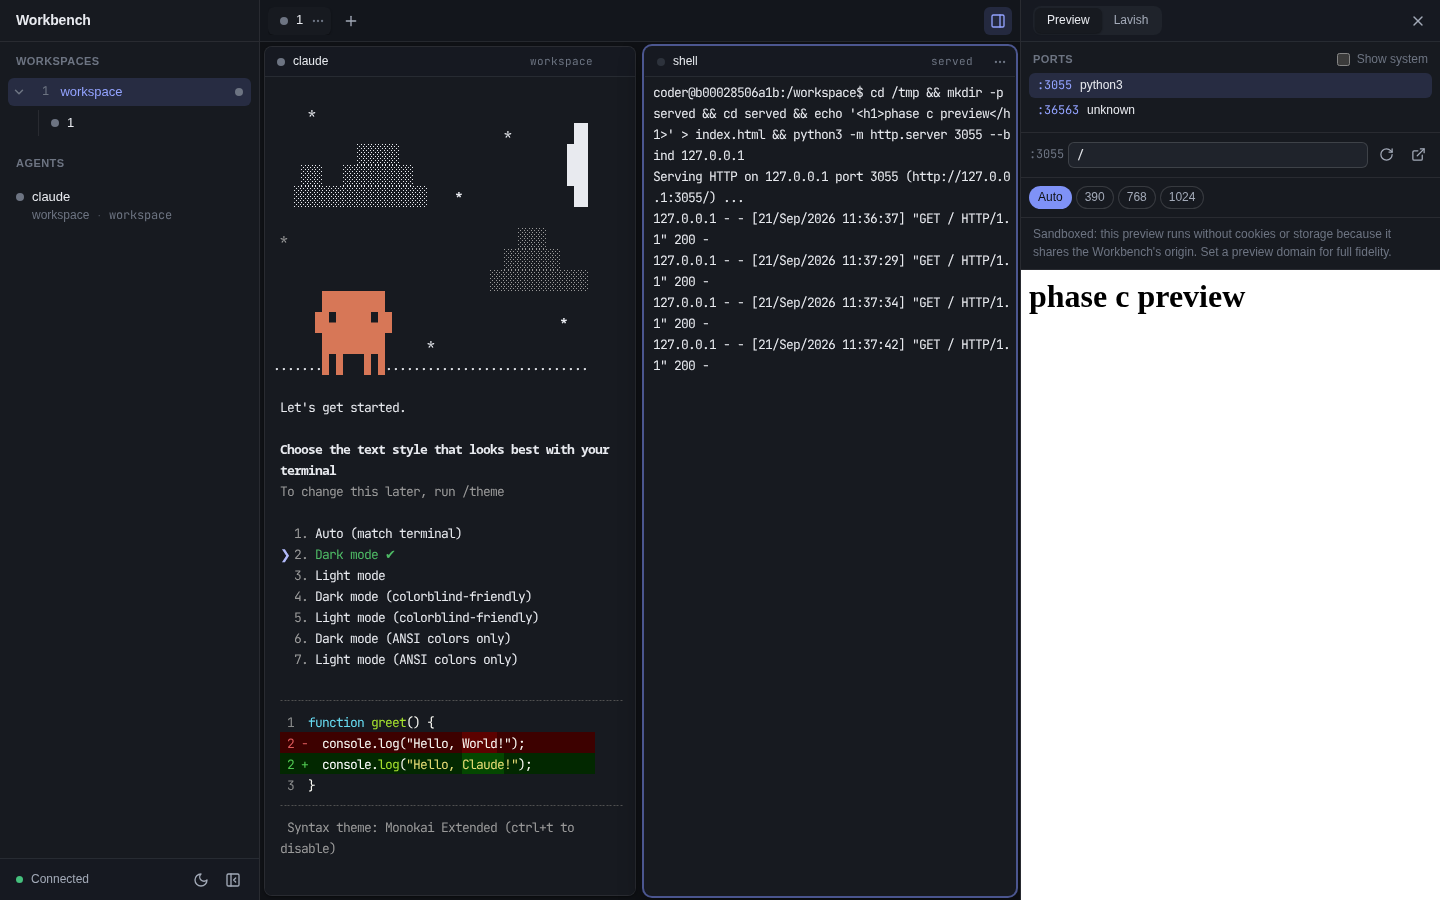
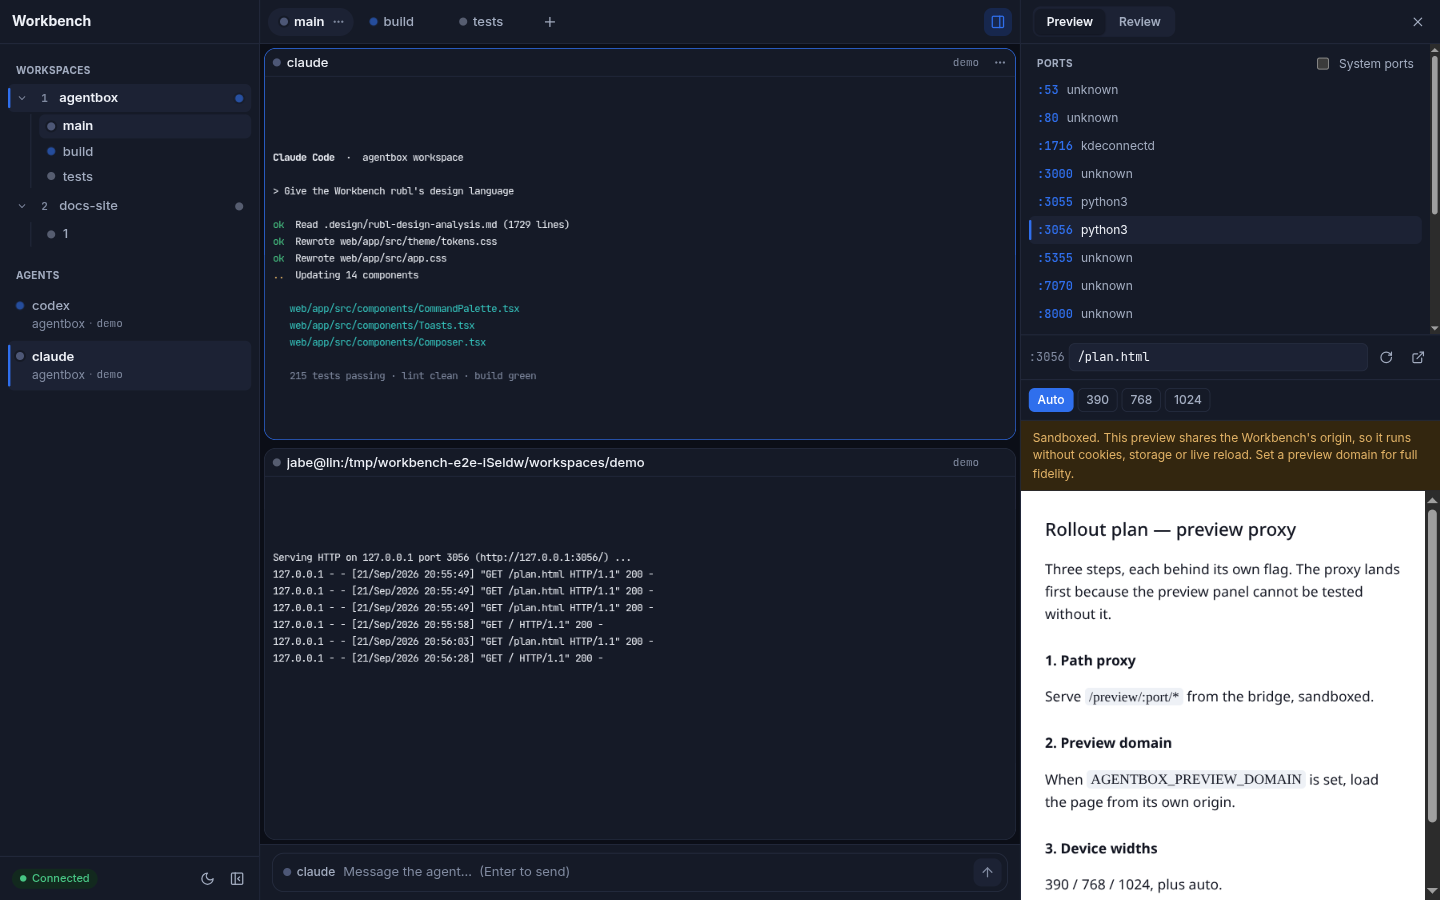
Refresh the Workbench screenshots and the paragraphs they illustrate
The two shots in the docs predate this pass entirely — they still show the
old palette, the old toasts and an inspector tab called Lavish — so they
are retaken against the current UI with a live stack: two workspaces, two
agents, a dev server logging requests in the pane beside it, and that
server's page in the preview panel.

Three sentences move with them. The composer's contract is Enter rather
than ⌘/Ctrl+Enter, the sidebar is now resizable and answers to ⌘B as well
as the prefix, and the browser remembers its width along with the theme and
the inspector's shape.

diff --git a/docs/workbench.md b/docs/workbench.md
@@ -17,8 +17,9 @@ are two views of one session rather than two sessions.
 Everything it shows comes from herdr over a local socket. The bridge that
 serves the app holds one connection to herdr and fans its events out to every
 open tab, so two browsers, a phone and the TUI all stay in step. Nothing is
-stored in the browser except your theme and the inspector's own shape — whether
-it is open, which tab it shows and how wide it is.
+stored in the browser except your theme, the sidebar's width and the
+inspector's own shape — whether it is open, which tab it shows and how wide it
+is.
 
 ![The Workbench in dark mode](images/workbench-dark.png)
 
@@ -26,15 +27,17 @@ it is open, which tab it shows and how wide it is.
 
 - **Sidebar** — workspaces, their tabs, and a flat list of every agent with its
   status. A workspace rolls up the worst status inside it, so a blocked agent
-  is visible without expanding anything. `prefix+b` hides it.
+  is visible without expanding anything. `prefix+b` or `⌘B` hides it, and the
+  edge between it and the grid can be dragged to resize it.
 - **Tab bar** — the tabs of the focused workspace. Rename in place with `F2`,
   close with `Delete`, walk them with the arrow keys.
 - **Pane grid** — herdr's layout, rendered as live terminals. Drag a split to
   resize it; the new ratio is sent to herdr, which is authoritative, so every
   other viewer follows.
 - **Composer** — appears under the grid when the focused pane holds an agent.
-  `⌘/Ctrl+Enter` sends; `Escape` puts focus back in the terminal.
-- **Inspector** — a drawer on the right with two panels: **Preview** for the
+  `Enter` sends, `Shift+Enter` starts a new line, and `Escape` puts focus back
+  in the terminal.
+- **Inspector** — a column on the right with two panels: **Preview** for the
   ports something is listening on, and **Review** for the pages agents publish
   for you to comment on.
 
@@ -79,7 +82,7 @@ field takes precedence.
 | `prefix+n` / `prefix+p` / `prefix+1…9` | next / previous / nth tab |
 | `prefix+⇧N` / `prefix+⇧W` / `prefix+⇧D` | workspace: new / rename / close |
 | `prefix+w` / `prefix+g` | palette, filtered to workspaces / everything |
-| `prefix+b` | toggle the sidebar |
+| `prefix+b` or `⌘B` | toggle the sidebar |
 | `prefix+q` | blur the terminal (the browser's equivalent of detach) |
 | `prefix+Ctrl+B` | send a literal `Ctrl+B` to the program in the pane |
 | `prefix+?` | show this keymap |
@@ -88,7 +91,7 @@ field takes precedence.
 
 The bridge watches which TCP ports are listening inside the sandbox and lists
 them in the Preview panel, hiding agentbox's own services behind a toggle. Pick
-one and it loads in the drawer, with device widths and an editable path.
+one and it loads in the panel, with device widths and an editable path.
 
 There are two ways to reach it, and the difference matters.
 
